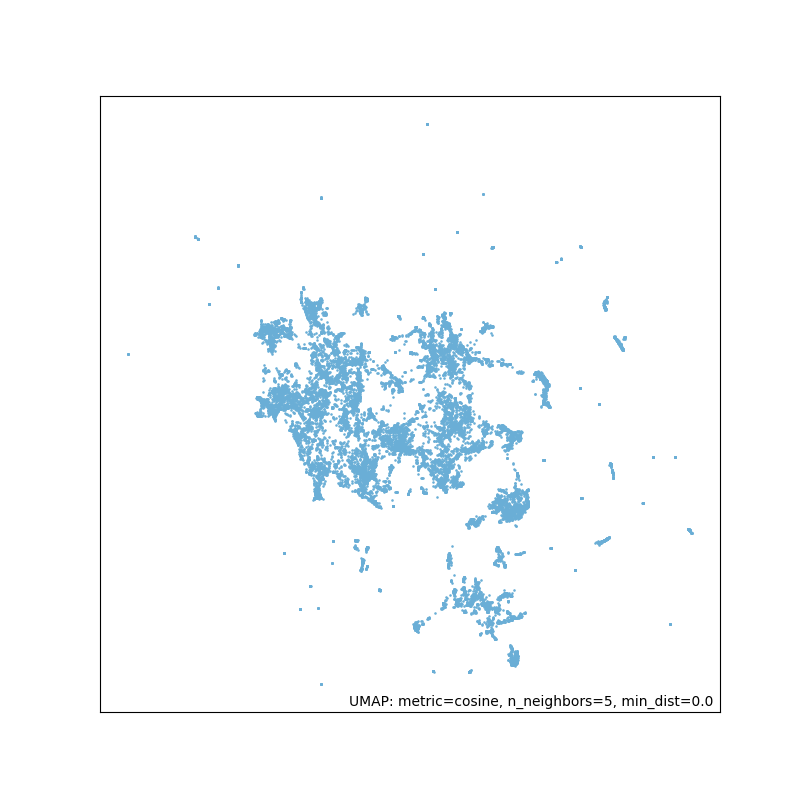
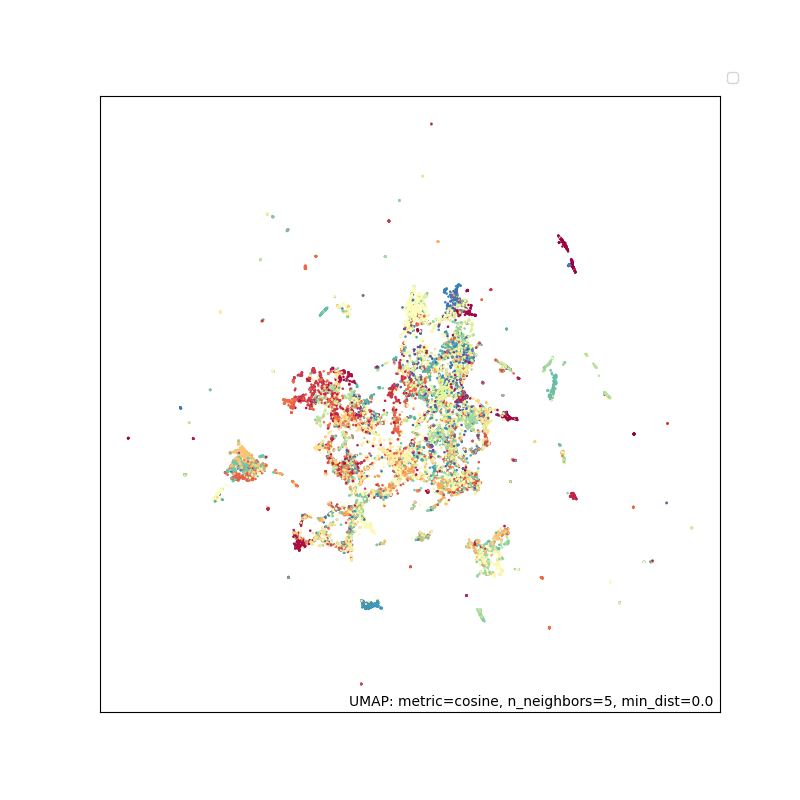
Merge conflict

diff --git a/flaskApi.py b/flaskApi.py
@@ -86,11 +86,13 @@ def startUmap(n_neighbors=5, min_dist=0.3, metric='cosine'):
 
 def draw_embedding(fit, labels, show=True, name="plot"):
     p = umap.plot.points(fit, labels=np.array(labels))
-    if show:
-        umap.plot.plt.legend(bbox_to_anchor=(1.05, 1), loc=2, mode="expand")
-        umap.plot.plt.show()
-    umap.plot.plt.legend(bbox_to_anchor=(1.05, 1), loc=2, mode="expand")
+    umap.plot.plt.legend(bbox_to_anchor=(1, 1.05), loc=2)
     umap.plot.plt.savefig(f"./plots/{name}.png")
+    if show:
+        hover_data = pd.DataFrame({'index':np.arange(len(labels)),
+                           'label':np.array(labels)})
+        umap.plot.interactive(fit, labels=np.array(labels), hover_data=hover_data)
+        umap.plot.plt.show()
 
 def umapNeighboursRange(metric='cosine', min_dist=0.0):
     print('Starting umap for various n_neighbours...')
